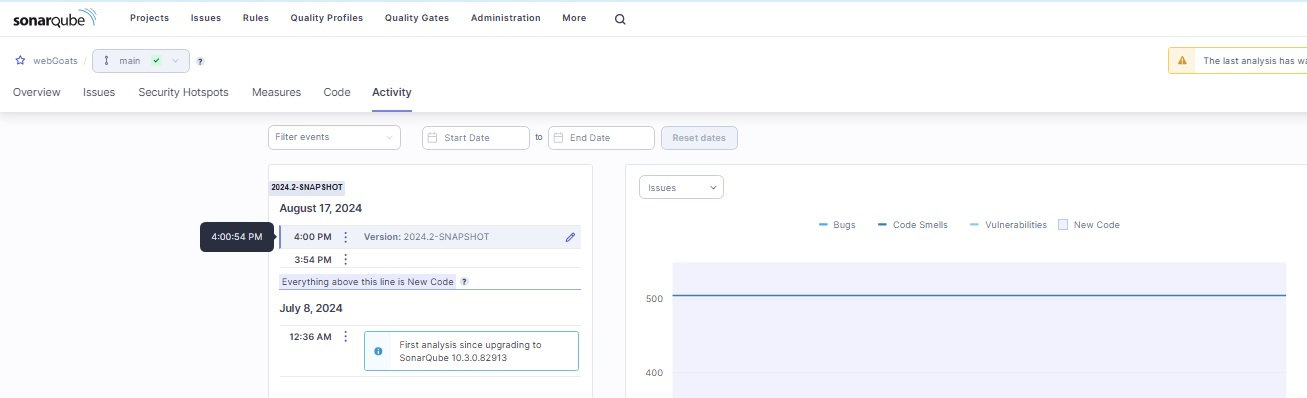
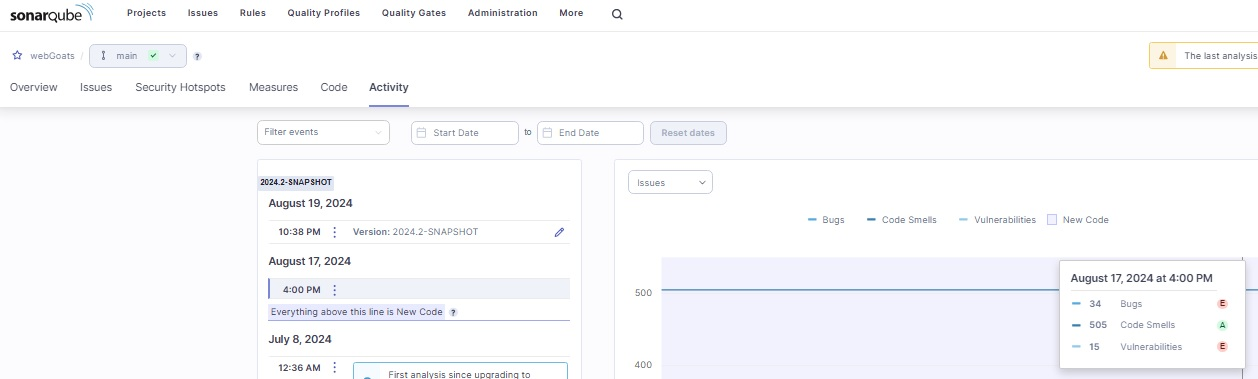
replace scan-2.jpg

diff --git a/src/main/webapp/family/photos/index.html b/src/main/webapp/family/photos/index.html
@@ -13,7 +13,8 @@
 <body>
     <p>
         <br><br><br>
-        <!--img src="/web-static/images/noaccess.jpg"-->
+        <!--WORKS on localhost Tomcat -> img src="/web-static/images/noaccess.jpg"-->
+        <!-- works when deployed as Azure static web app -->
         <img src="/images/noaccess.jpg">
     </p>
 </body>
